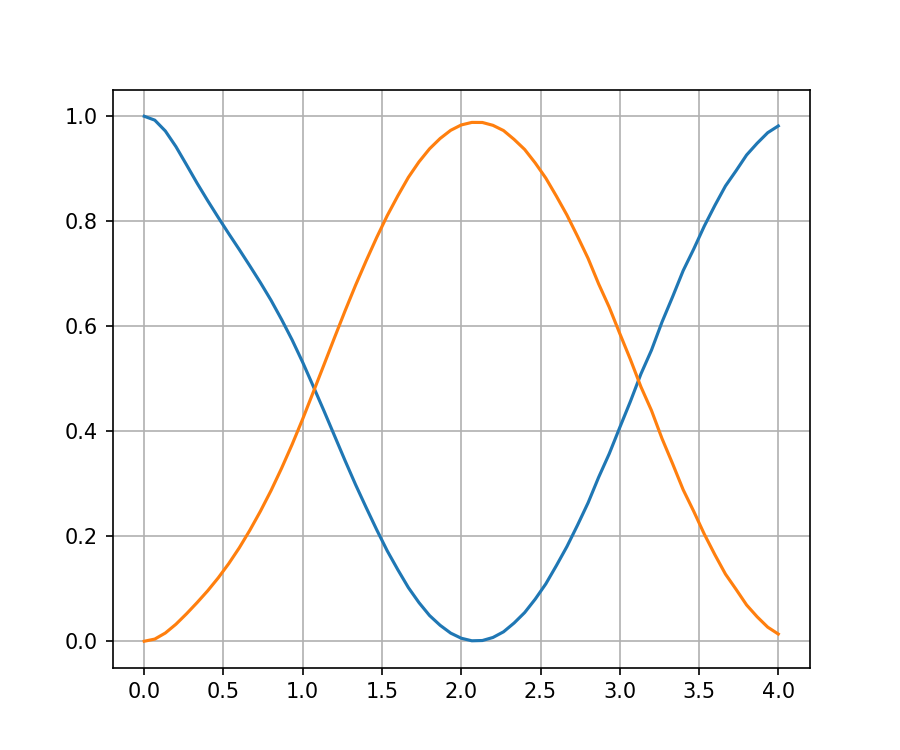
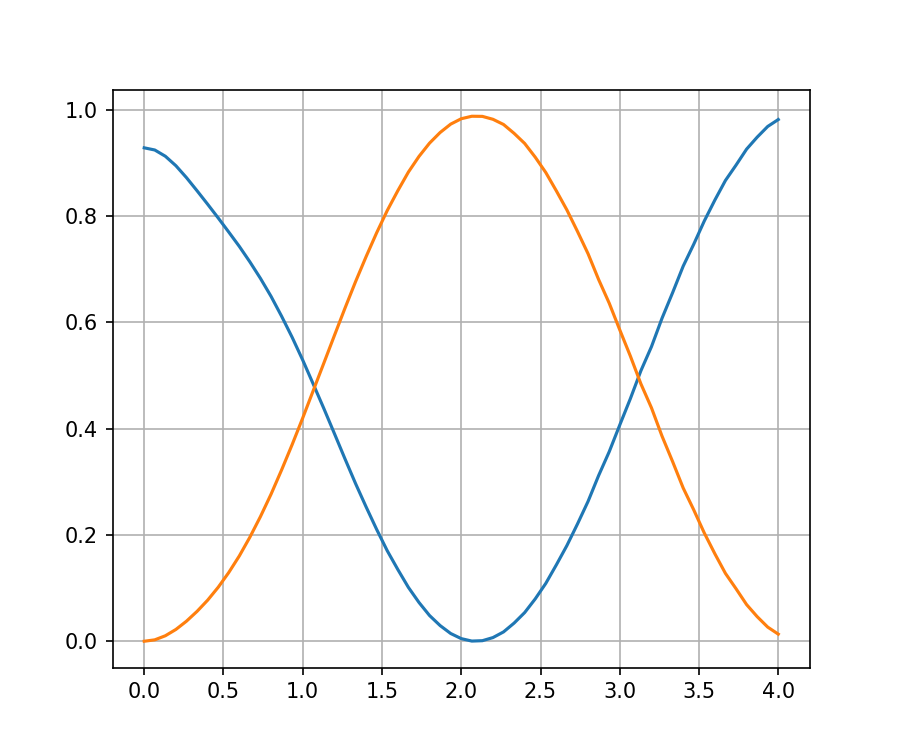
correct result

diff --git a/test_slant.py b/test_slant.py
@@ -26,7 +26,7 @@ modes = Modes(domain)
 modes.set_harmonics(10, 0)
 
 
-def run(AOI, slant_angle):
+def run(AOI, slant_angle, depth):
     modes.set_incidence_AOI_POI(
         AOI=np.deg2rad(AOI),
         POI=np.deg2rad(0))
@@ -47,7 +47,7 @@ def run(AOI, slant_angle):
     S = SlantGrating(modes, sbuilder, n1=n1, n2=n2,
                      ff=0.5,
                      slant_angle=np.deg2rad(slant_angle),
-                     depth=1.219,
+                     depth=depth,
                      dff=-1,
                      dz=0.02)
 
@@ -122,11 +122,14 @@ def run(AOI, slant_angle):
 
 
 plt.figure(figsize=(6, 5), dpi=150)
-for slant_angle in [23.289, 12.55, 0]:
+
+for case in range(3):
+    slant_angle = [23.289, 12.55, 0][case]
+    depth = [1.219, 1.309, 1.346][case]
     ts = []
     AOIs = np.linspace(-20, 50, 51)
     for AOI in AOIs:
-        T = run(AOI, slant_angle)
+        R, T = run(AOI, slant_angle, depth)
         ts.append(np.sum(T * (modes.mx == -1) * (modes.my == 0)))
     plt.plot(AOIs, ts)
 plt.grid()

diff --git a/test_depth.py b/test_depth.py
@@ -128,7 +128,7 @@ t0 = []
 t1 = []
 depths = np.linspace(0, 4*period, 61)
 for depth in depths:
-    T = run(depth)
+    R, T = run(depth)
     t0.append(np.sum(T * (modes.mx == 0) * (modes.my == 0)))
     t1.append(np.sum(T * (modes.mx == -1) * (modes.my == 0)))
 plt.plot(depths/period, t0)
